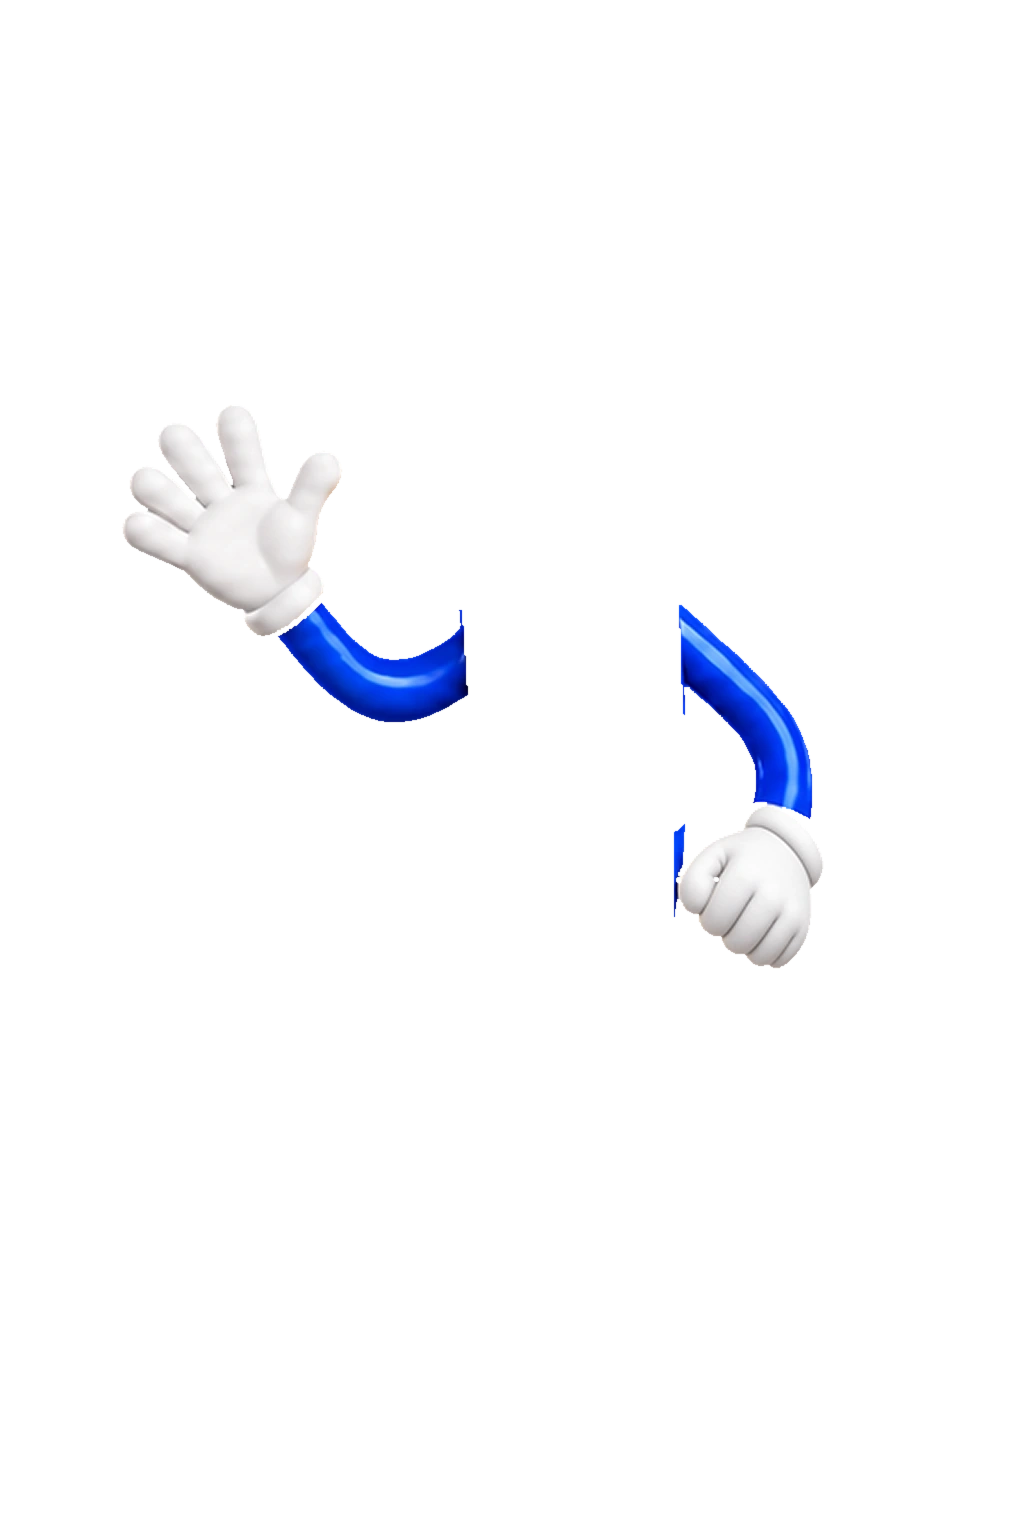
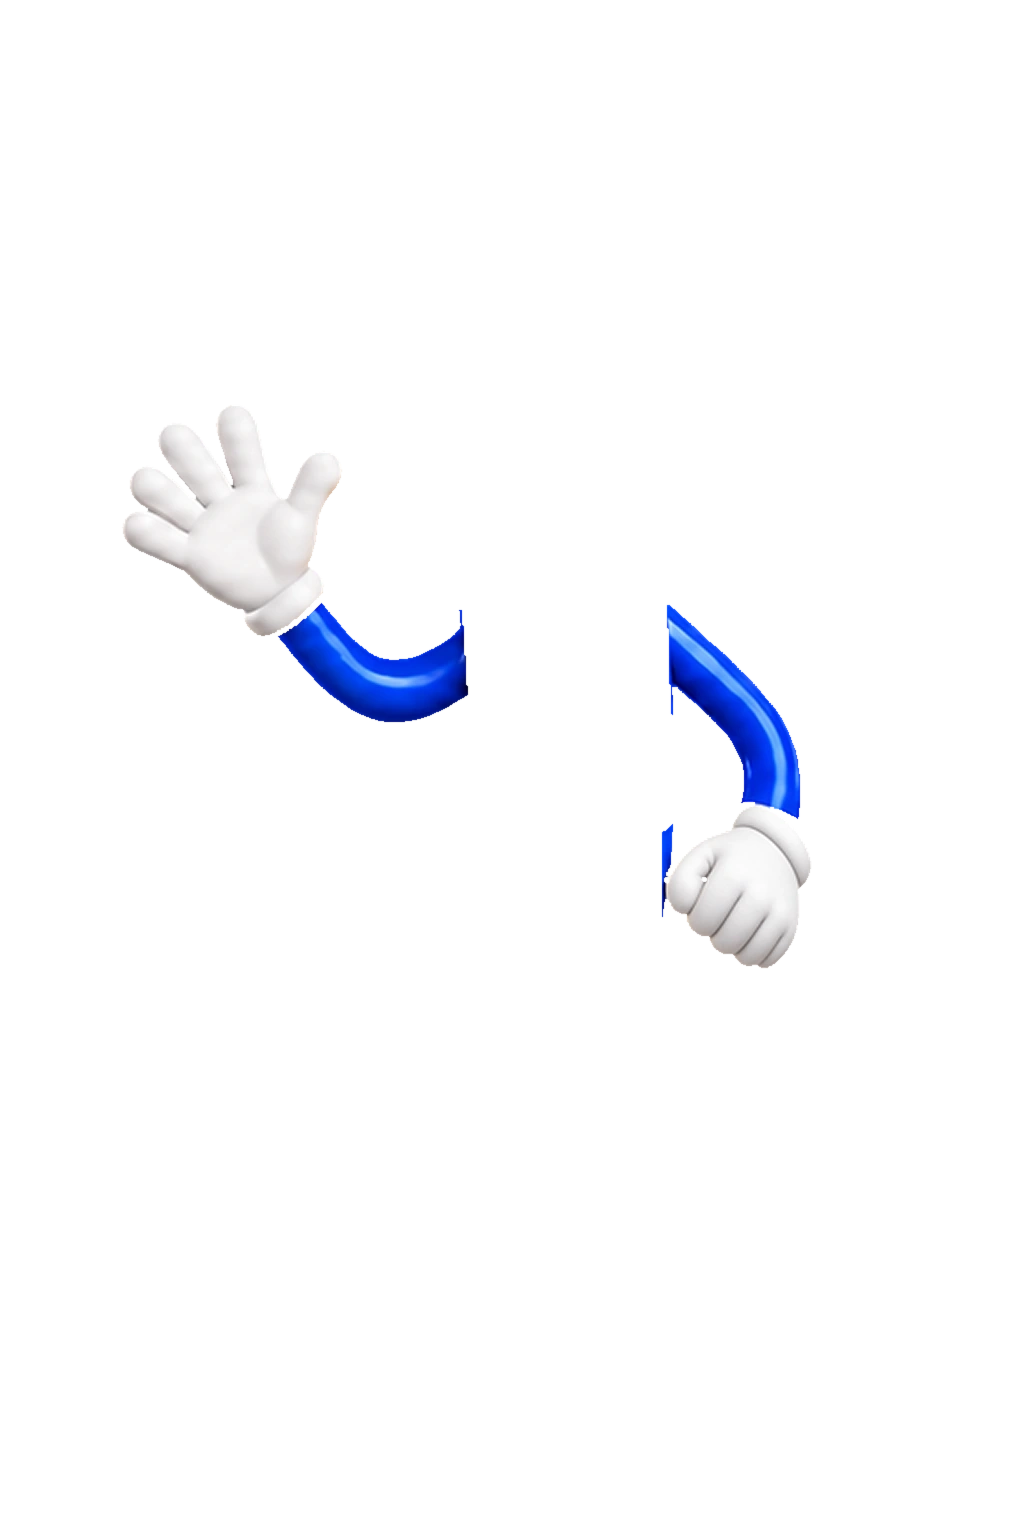
Fit arm shoulders behind barrel and hip glove in foreground

Changed region(s): [[0.625, 0.375, 0.8125, 0.625]]

diff --git a/app/admin/base-poses.jsx b/app/admin/base-poses.jsx
@@ -43,9 +43,10 @@ export default function BasePoses() {
           <section className="customizer-workbench" aria-label={`${pose.name} blank pencil`}>
             <div className="base-pose-preview" >
               <div className="pose-layer-stage">
-                <img style={{visibility: finish ? "hidden" : "visible"}} src={skin === "yellow" ? `/assets/base-poses/${pose.id}.webp?v=clean-edges7` : `/assets/pencil-skins/${pose.id}-${skin}.webp?v=clean-edges7`} alt={`${STANDARD_SKINS.find(item => item.id === skin).name} pencil — ${pose.name}`} />
-              {arms && <img style={{zIndex: 3}} className="pose-dress-layer" src={`/assets/arm-traits/${pose.id}-wave-${finish === "classic-red" ? "red" : finish === "polka-dot-pink" ? "pink" : finish === "sky-blue-striped" ? "blue" : finish === "stealth-matte-black" ? "black" : finish === "neon-acid" ? "pepe-green" : skin}.webp?v=clean-edges7`} alt="Matching arms with white gloves"/>}
-                {finish && <img className="pose-dress-layer" src={`/assets/body-finishes/${pose.id}/${finish}.webp?v=3`} alt={finishes.find(([id]) => id === finish)[1] + " body finish"}/>}
+                <img style={{zIndex:2,visibility: finish ? "hidden" : "visible"}} src={skin === "yellow" ? `/assets/base-poses/${pose.id}.webp?v=clean-edges7` : `/assets/pencil-skins/${pose.id}-${skin}.webp?v=clean-edges7`} alt={`${STANDARD_SKINS.find(item => item.id === skin).name} pencil — ${pose.name}`} />
+              {arms && <img style={{zIndex: 1}} className="pose-dress-layer" src={`/assets/arm-traits/${pose.id}-wave-${finish === "classic-red" ? "red" : finish === "polka-dot-pink" ? "pink" : finish === "sky-blue-striped" ? "blue" : finish === "stealth-matte-black" ? "black" : finish === "neon-acid" ? "pepe-green" : skin}.webp?v=clean-edges7`} alt="Matching arms with white gloves"/>}
+                {arms && <img style={{zIndex:3}} className="pose-dress-layer" src={`/assets/arm-traits/${pose.id}-hip-glove.webp?v=1`} alt="Hip hand in front of barrel"/>}
+                {finish && <img style={{zIndex:2}} className="pose-dress-layer" src={`/assets/body-finishes/${pose.id}/${finish}.webp?v=3`} alt={finishes.find(([id]) => id === finish)[1] + " body finish"}/>}
               </div>
               <strong>{pose.name} · {finish ? finishes.find(([id]) => id === finish)[1] : STANDARD_SKINS.find(item => item.id === skin).name}</strong>
               </div><div className="customizer-controls"><h2>Make it yours.</h2><fieldset className="trait-section" style={{ width: "100%", marginTop: 20 }}>

diff --git a/scripts/fit-arm-depth.py b/scripts/fit-arm-depth.py
@@ -1,0 +1,9 @@
+from pathlib import Path
+from PIL import Image
+import numpy as np
+r=Path(__file__).resolve().parents[1]
+for pose in ['tilt-left','tilt-right','straight']:
+ im=Image.open(r/f'public/assets/arm-traits/{pose}-wave-yellow.webp').convert('RGBA');a=np.array(im);yy,xx=np.indices(a.shape[:2]);white=(a[:,:,3]>160)&(a[:,:,:3].min(2)>135)&((a[:,:,:3].max(2).astype(int)-a[:,:,:3].min(2).astype(int))<45)&(yy>740)
+ y,x=np.where(white);box=(int(x.min())-3,int(y.min())-3,int(x.max())+4,int(y.max())+4)
+ out=Image.new('RGBA',im.size);out.alpha_composite(im.crop(box),(box[0],box[1]));out.save(r/f'public/assets/arm-traits/{pose}-hip-glove.webp',lossless=True)
+ board=Image.new('RGBA',im.size,'#171021');board.alpha_composite(im);board.alpha_composite(Image.open(r/f'public/assets/base-poses/{pose}.webp').convert('RGBA'));board.alpha_composite(out);board.thumbnail((512,768));board.convert('RGB').save(r/f'outputs/arm-fit-{pose}.jpg',quality=95)
